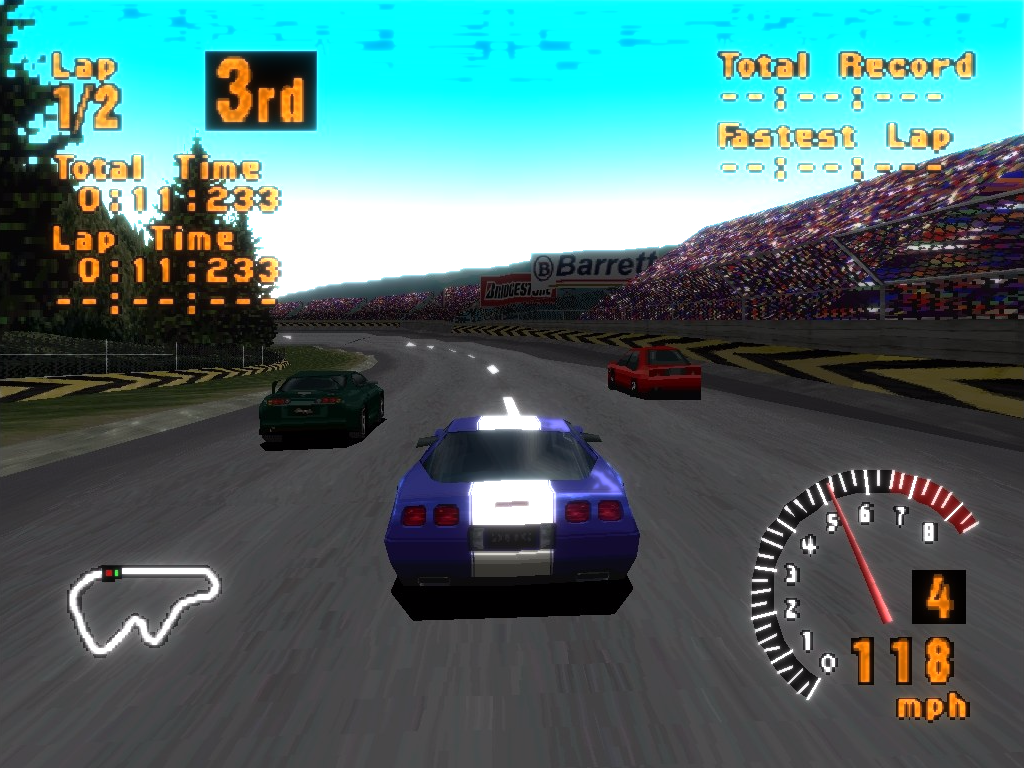
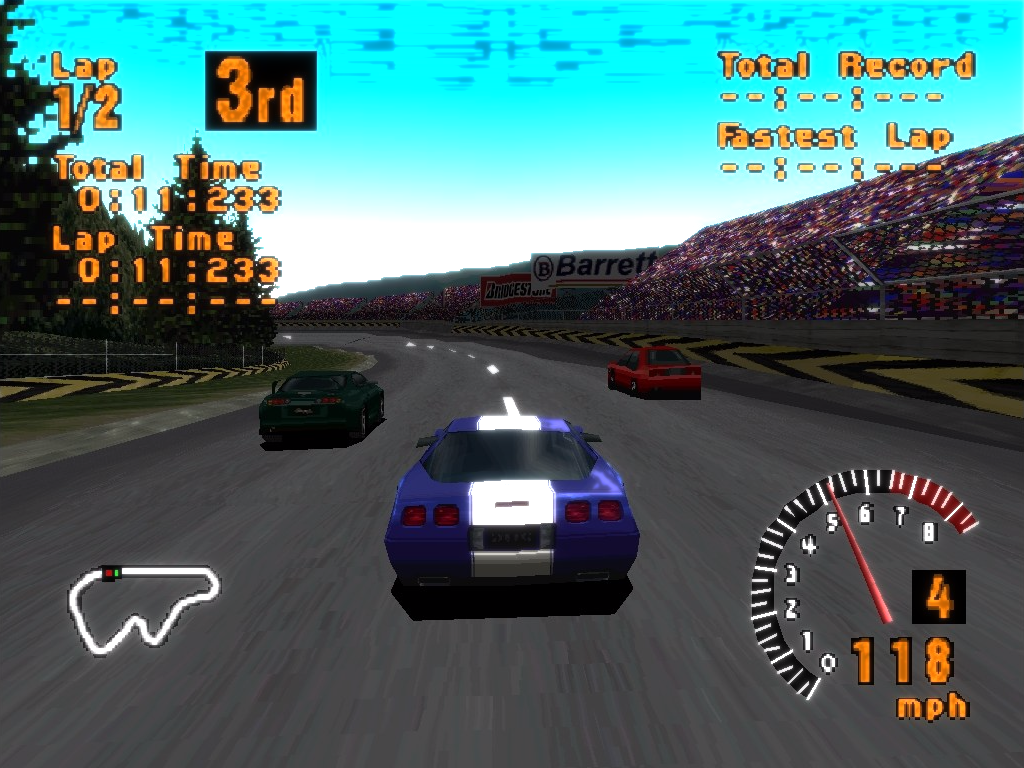
4 iterations

diff --git a/main.py b/main.py
@@ -54,7 +54,7 @@ def main ():
             start_time = timeit.default_timer()
 
             mask = bright_pass(img, 0.5)
-            mask = bloom(mask, 5, 1)
+            mask = bloom(mask, 4, 1)
 
             out = 0.7*img + 0.3*mask
 
